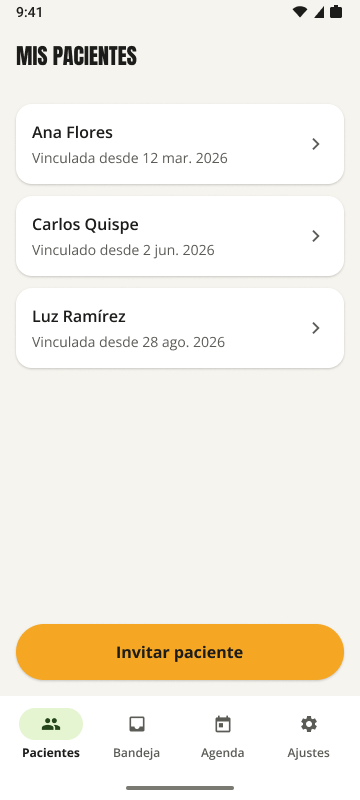
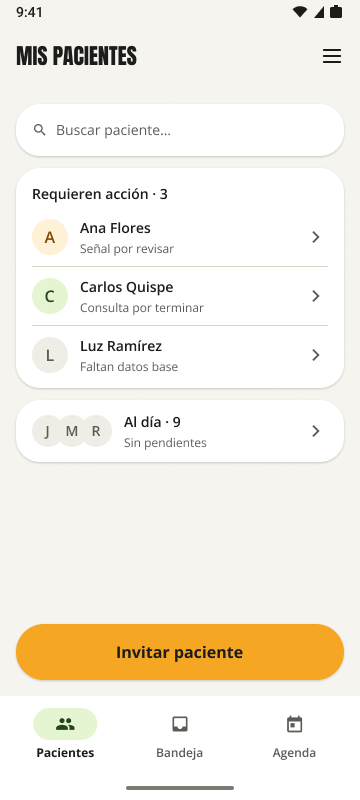
docs(chapter3): update organization systems

diff --git a/report/13-chapter3-solution-ui-ux-design.md b/report/13-chapter3-solution-ui-ux-design.md
@@ -96,17 +96,19 @@ La arquitectura de información de Healthify atiende dos experiencias distintas:
 
 Se aplica una **organización jerárquica** (visual hierarchy). La página principal ordena sus secciones de mayor a menor peso en la decisión del visitante:
 
-1. Héroe (carrusel con propuesta de valor, video del producto y del equipo)
-2. Problema que resuelve Healthify
-3. Para el paciente
-4. Para el nutricionista
-5. Cómo funciona
-6. Preguntas frecuentes
-7. Pie de página (navegación, legal, redes y contacto)
+1. Héroe (carrusel con la propuesta de valor, el video del equipo y el video del producto)
+2. Propuesta de valor (lo que el nutricionista ve en la ficha del paciente)
+3. La consulta, paso a paso
+4. Entre citas (señales de la bandeja)
+5. Para nutricionistas
+6. Para pacientes
+7. Prueba social (testimonios y criterio clínico)
+8. Llamada final a la acción
+9. Pie de página (producto, empresa, legal y contacto)
 
-La secuencia sigue un recorrido de persuasión: se plantea el problema, se muestra la solución para cada rol y se resuelven las dudas antes de invitar a la acción. Dentro de «Cómo funciona» se usa una **organización secuencial** (paso a paso) en cuatro pasos: *Medición de hoy*, *Diagnóstico con apoyo de IA*, *Metas calculadas* e *Indicaciones y publicación*. Las páginas secundarias (Nosotros, Contacto y Términos y condiciones) se organizan **por tópicos**: historia, misión y visión, valores y equipo en Nosotros; datos de contacto y formulario en Contacto; y una cláusula por tema en Términos.
+La secuencia está pensada para el nutricionista, que es quien decide adoptar la herramienta. Primero ve el resultado (los registros de su paciente en la ficha), luego cómo trabaja en consulta y entre citas, después todo lo que incluye y lo que verá su paciente, y al final los testimonios y la invitación a descargar la app. Dentro de «La consulta, paso a paso» se usa una **organización secuencial** en cuatro pasos: *Medición de hoy*, *Diagnóstico con IA*, *Metas calculadas* e *Indicaciones y publicación*. Las páginas secundarias se organizan **por tópicos**: historia, misión y visión, valores, equipo y preguntas frecuentes en Nosotros; tipo de consulta, formulario y otros datos de contacto en Contacto; y una cláusula por tema en Términos y condiciones.
 
-La categorización del contenido combina dos esquemas: **según audiencia** (secciones «Paciente» y «Nutricionista», con el mismo patrón de presentación para comparar) y **por tópicos** en las preguntas frecuentes, filtradas por *Todas*, *Pacientes*, *Nutricionistas*, *Privacidad* e *IA*.
+La categorización del contenido combina dos esquemas: **según audiencia** (secciones «Para nutricionistas» y «Para pacientes») y **por tópicos** en las preguntas frecuentes de Nosotros, filtradas por *Todas*, *Pacientes*, *Nutricionistas*, *Privacidad* e *IA*.
 
 **Aplicación móvil**
 
@@ -116,11 +118,11 @@ Los módulos de la aplicación se agrupan **según audiencia** (paciente o nutri
 
 | Sistema | Dónde se aplica |
 |---|---|
-| **Jerárquico** | *Inicio* del paciente: primero la meta del día (calorías y macros) y el botón naranja «Registrar comida», y debajo «Cómo voy hoy», «Próxima consulta» y avisos. En la ficha del paciente (nutricionista): identidad y estado del plan, próxima consulta, indicadores desde la última consulta y, al final, las acciones de gestión. |
-| **Secuencial** | Registro de cuenta (elegir rol, completar datos); vinculación (escanear invitación, consentimiento y alcance); registro por foto (cámara, previsualización, estimación propuesta, confirmar o ajustar); y la **consulta guiada** del nutricionista en cuatro pasos (medición, diagnóstico con IA, metas, indicaciones y publicación). |
-| **Matricial** | Las tarjetas de indicadores en pares, como «Peso (autopesaje)» y «Cumplimiento» en la ficha del paciente, y la cuadrícula de proteína, carbohidratos y grasa en Inicio, que permiten comparar métricas de un vistazo. |
+| **Jerárquico** | *Inicio* del paciente: primero el medidor de energía con las kcal que quedan hoy y los macros, luego «Tu semana» con los días registrados, y debajo «Cómo voy hoy», «Próxima consulta» y los avisos. En la ficha del paciente (nutricionista): identidad y estado del plan, próxima consulta, indicadores desde la última consulta, las acciones de gestión y el botón «Iniciar consulta» fijo al pie. |
+| **Secuencial** | Registro de cuenta (elegir rol, completar datos y aceptar los términos); recuperación de contraseña (correo, código de 6 dígitos y contraseña nueva); vinculación (escanear invitación, consentimiento y alcance); registro por foto (cámara, previsualización, estimación propuesta, confirmar o ajustar); y la **consulta guiada** del nutricionista en cuatro pasos (medición, diagnóstico con IA, metas, indicaciones y publicación). |
+| **Matricial** | Las tarjetas de indicadores en pares, como «Peso (autopesaje)» y «Cumplimiento» en la ficha del paciente, la fila de proteína, carbohidrato y grasa bajo el medidor de Inicio y los siete días de «Tu semana», que permiten comparar métricas de un vistazo. |
 
-Para ordenar listas se usan dos criterios de categorización: **cronológico** (el diario por día, las próximas consultas en la agenda, la bandeja por fecha de recepción y las versiones del plan de la más reciente a la más antigua) y **por estado** (ítems de revisión abiertos o resueltos, vínculo vigente o dado de alta, consulta próxima o completada). La cartera de pacientes se presenta por vínculo, con la fecha desde la que el paciente está vinculado.
+Para ordenar listas se usan dos criterios de categorización: **cronológico** (el diario por día, las próximas consultas en la agenda, la bandeja por fecha de recepción y las versiones del plan de la más reciente a la más antigua) y **por estado** (ítems de revisión abiertos o resueltos, vínculo vigente o dado de alta, consulta próxima o completada). La cartera de pacientes se divide en dos grupos por estado: «Requieren acción» (señal por revisar, consulta por terminar, faltan datos base o falta publicar el plan) y «Al día».
 
 #### 3.1.2.2. Labelling Systems
 
